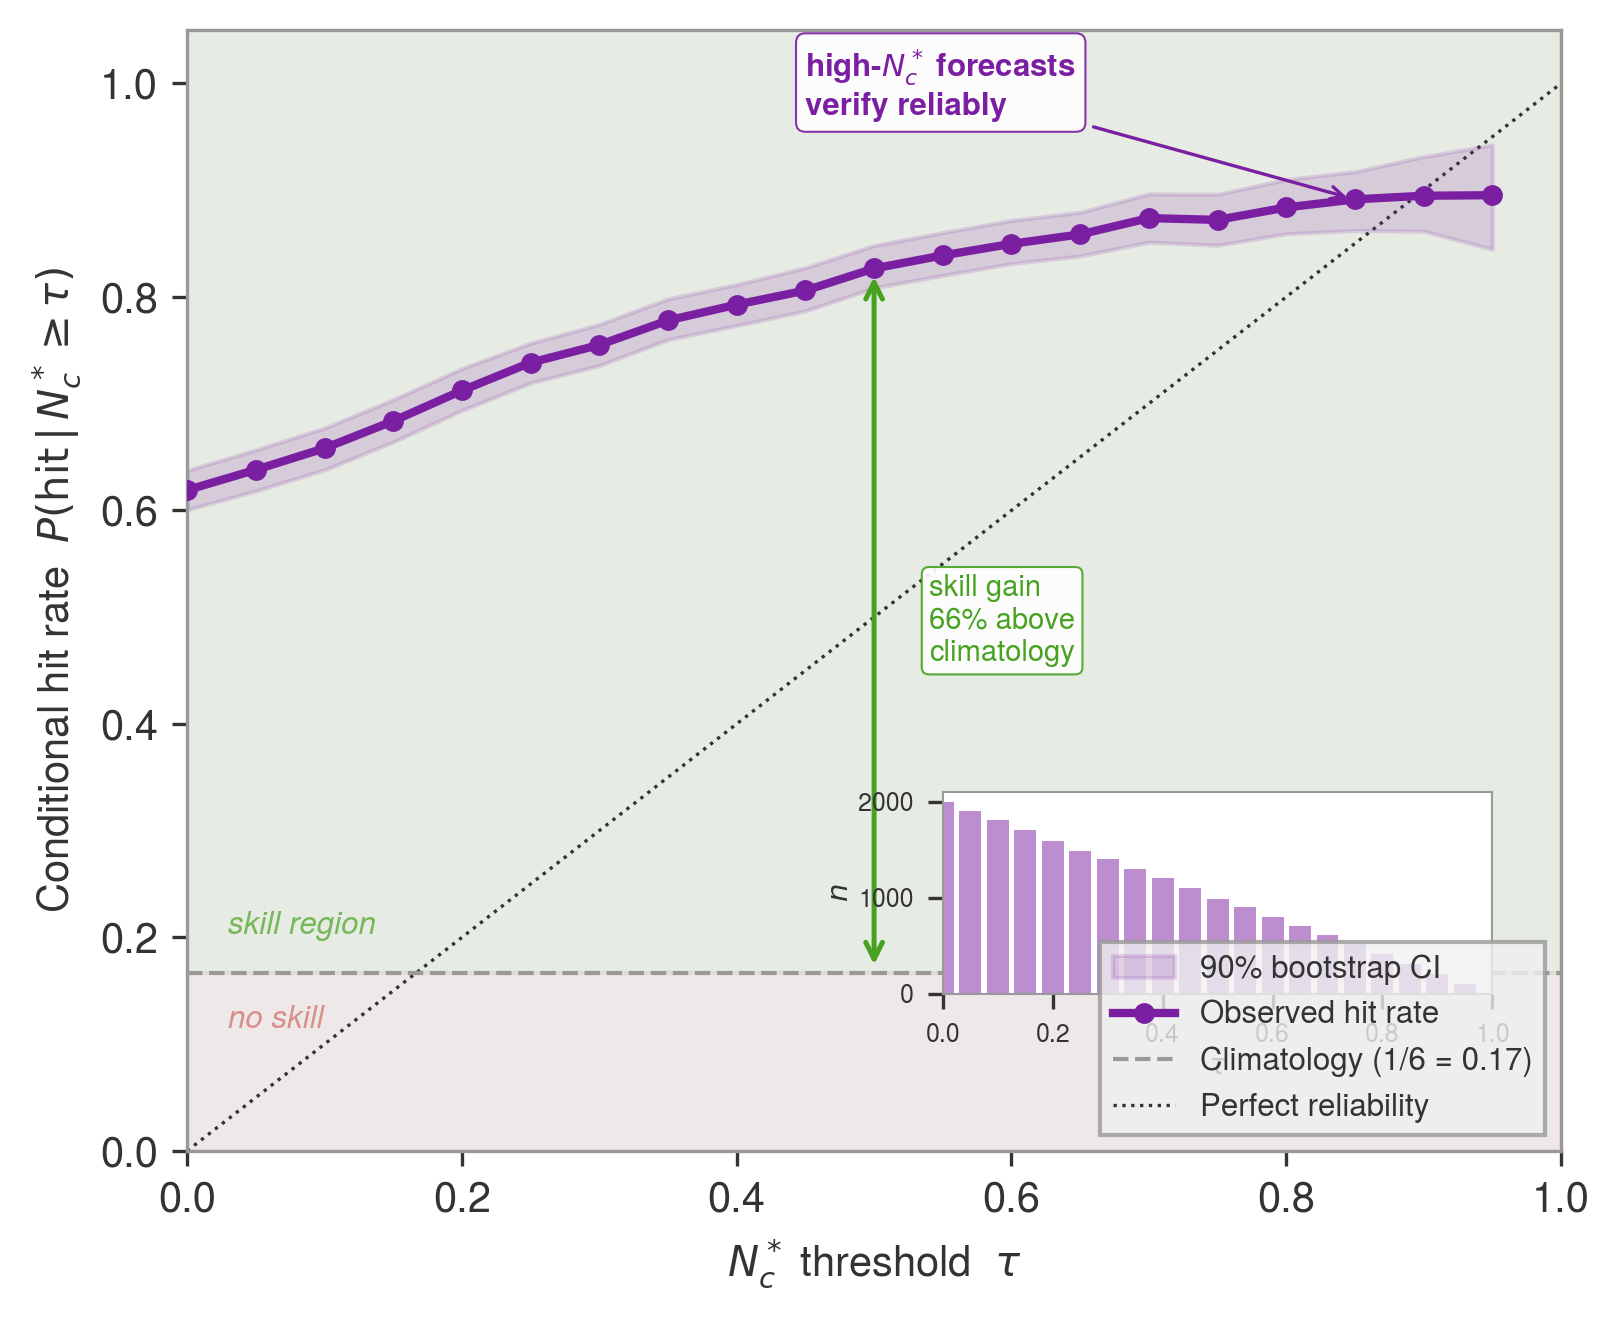
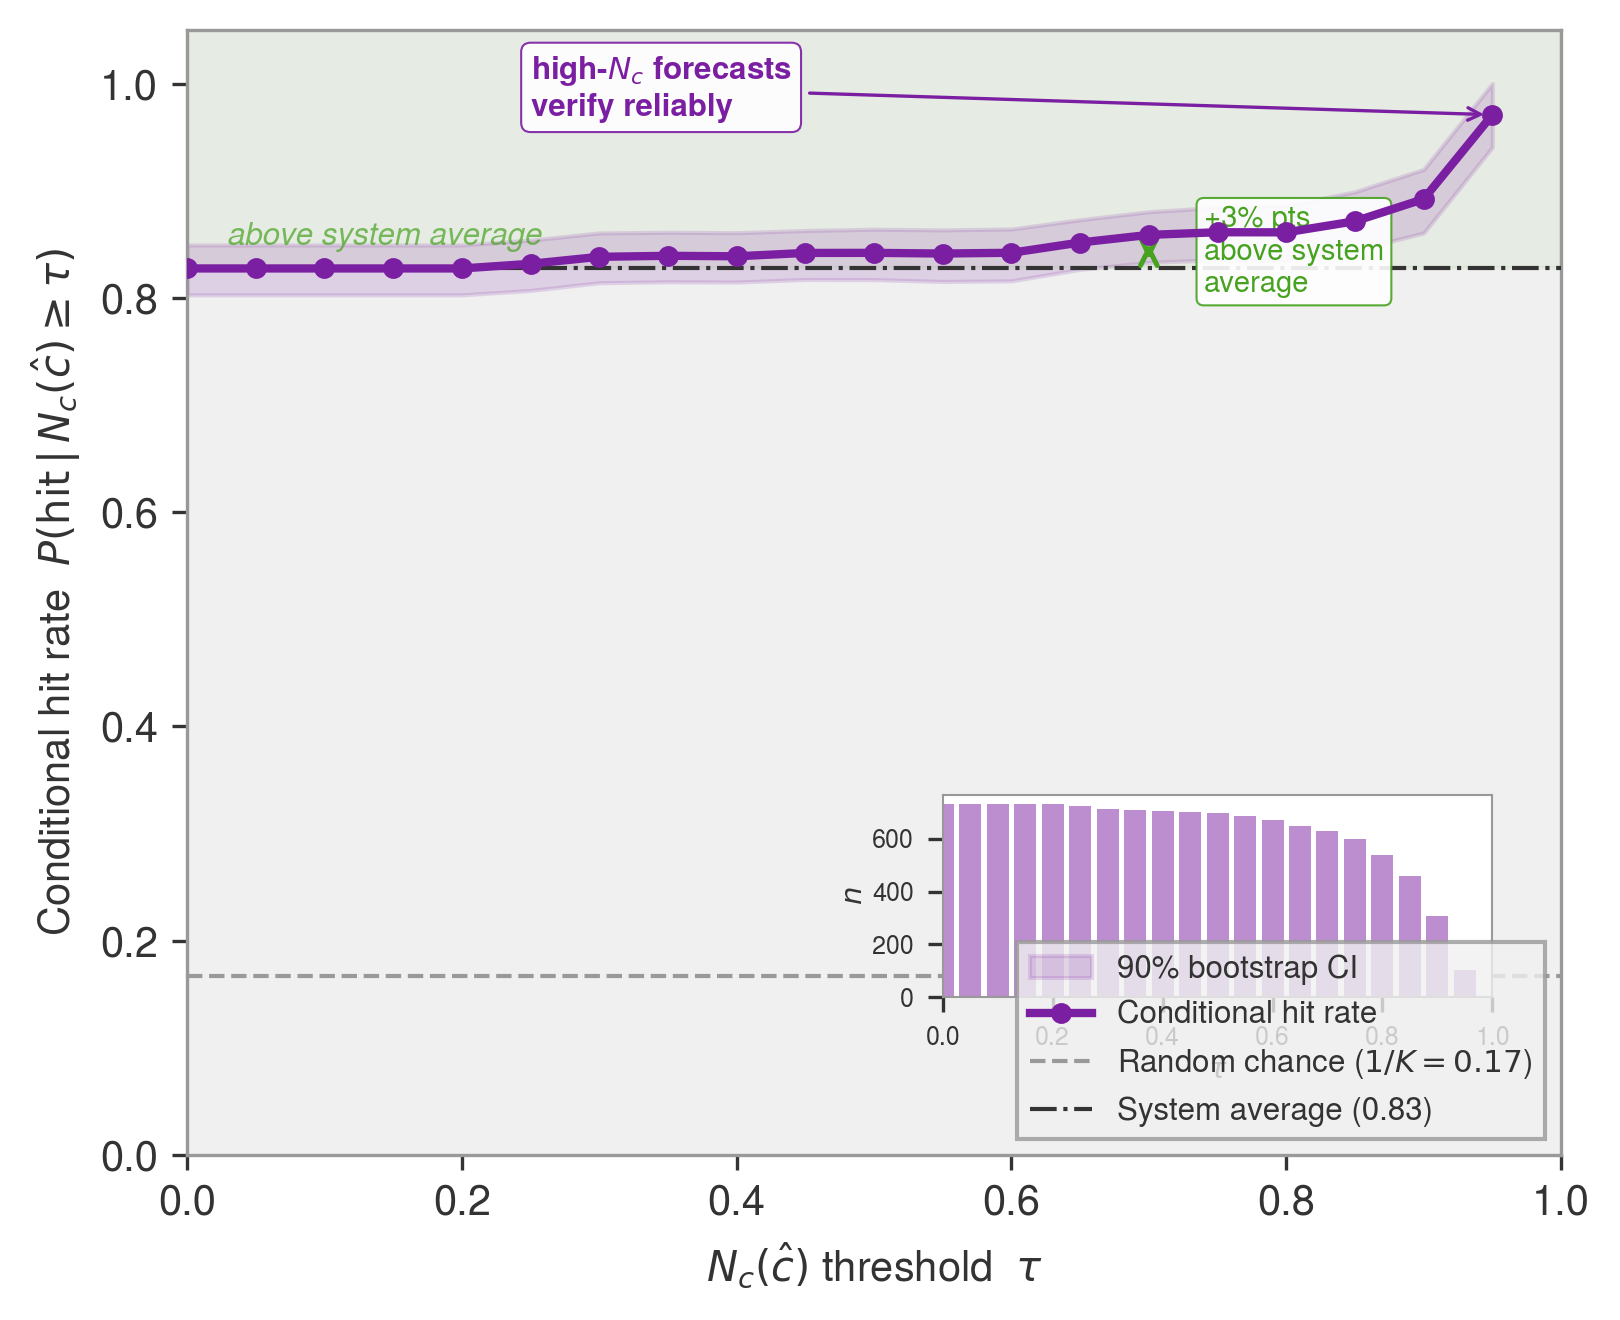
Regenerate Fig 6: shared reforecast, N_c(mode), two baselines
Replace fabricated synthetic data with the shared reforecast for
consistency with all other aggregate figures.

Compute N_c at the predicted (mode) category, not the observed one —
this correctly tests whether high N_c of the system's top pick is a
reliable confidence signal, rather than trivially recovering hits.

Add system-average baseline (0.83) alongside random-chance (1/K).
The curve rises ~3-5 pts above system average at high thresholds,
showing N_c identifies genuinely confident predictions.

Update caption and §5.1 text to describe the correct computation
and both baselines.

diff --git a/scripts/fig_reliability_curves.py b/scripts/fig_reliability_curves.py
@@ -1,54 +1,34 @@
 """Figure 6 (PDF order): Reliability of conditional necessity.
 
 x-axis: N_c threshold (0 to 1).
-y-axis: Conditional hit rate — fraction of forecasts whose N_c exceeds
-        the threshold and for which the correct category verified.
+y-axis: Conditional hit rate — among forecasts where the mode's N_c
+        exceeds the threshold, what fraction verified correctly?
 
-Enhanced with bootstrap confidence band, skill-region shading,
-sample-size inset, and interpretive annotations.
+Uses the shared synthetic reforecast from fig_performance_diagram.py.
+N_c is evaluated at the *predicted* (mode) category, not the observed
+one — this tests whether high N_c of the system's top pick is a
+reliable confidence signal.
 """
 import numpy as np
 import matplotlib.pyplot as plt
-from matplotlib.patches import FancyArrowPatch
 
 from style import (
     apply_style, save_fig,
     PURPLE, GREEN, LIGHT_GREY, DARK_GREY, MID_GREY,
     SPC_CATEGORIES, SPC_N,
 )
+from fig_performance_diagram import generate_reforecast
 
 
-def _generate_synthetic_data(n_forecasts=2000, seed=42):
-    """Generate synthetic (N_c, hit) pairs for illustration.
-
-    Higher N_c forecasts are more likely to verify (the whole point of the
-    reliability curve).  We model hit probability as a logistic function of N_c
-    with a bit of noise so the curve is realistic but not perfect.
-    """
-    rng = np.random.default_rng(seed)
-
-    # N_c values uniformly distributed in [0, 1]
-    Nc = rng.uniform(0, 1, size=n_forecasts)
-
-    # True hit probability: logistic mapping so high N_c -> high hit rate
-    # p(hit | Nc) = sigmoid(4*(Nc - 0.35))   gives ~0.20 at Nc=0, ~0.90 at Nc=1
-    logit = 4.0 * (Nc - 0.35)
-    p_hit = 1.0 / (1.0 + np.exp(-logit))
-
-    hits = rng.binomial(1, p_hit)
-
-    return Nc, hits
-
-
-def _bootstrap_ci(Nc_vals, hits, thresholds, n_boot=500, seed=99):
+def _bootstrap_ci(nc_mode, hits, thresholds, n_boot=500, seed=99):
     """Compute 90% bootstrap confidence intervals for conditional hit rate."""
     rng = np.random.default_rng(seed)
-    n = len(Nc_vals)
+    n = len(nc_mode)
     boot_curves = np.empty((n_boot, len(thresholds)))
 
     for b in range(n_boot):
         idx = rng.choice(n, size=n, replace=True)
-        nc_b, h_b = Nc_vals[idx], hits[idx]
+        nc_b, h_b = nc_mode[idx], hits[idx]
         for j, t in enumerate(thresholds):
             mask = nc_b >= t
             boot_curves[b, j] = h_b[mask].mean() if mask.sum() > 0 else np.nan
@@ -61,7 +41,24 @@ def _bootstrap_ci(Nc_vals, hits, thresholds, n_boot=500, seed=99):
 def main():
     apply_style()
 
-    Nc_vals, hits = _generate_synthetic_data()
+    # --- Use shared reforecast data ---
+    data = generate_reforecast()
+    pi_array = data['pi_array']
+    obs_idx = data['obs_idx']
+    n = len(obs_idx)
+
+    # Compute N_c of the MODE (predicted) category — not N_c*
+    # N_c(mode) = 1 - max_{w != mode} pi'(w)
+    mode_idx = pi_array.argmax(axis=1)
+    nc_mode = np.empty(n)
+    for i in range(n):
+        pi = pi_array[i]
+        pi_prime = pi / pi.max()
+        mask = np.ones(SPC_N, dtype=bool)
+        mask[mode_idx[i]] = False
+        nc_mode[i] = max(0.0, 1.0 - pi_prime[mask].max())
+
+    hits = (mode_idx == obs_idx).astype(float)
 
     # Bin by N_c threshold and compute conditional hit rate
     thresholds = np.linspace(0.0, 0.95, 20)
@@ -69,27 +66,24 @@ def main():
     counts = np.empty_like(thresholds)
 
     for j, t in enumerate(thresholds):
-        mask = Nc_vals >= t
-        n = mask.sum()
-        counts[j] = n
-        cond_hit[j] = hits[mask].mean() if n > 0 else np.nan
+        mask = nc_mode >= t
+        cnt = mask.sum()
+        counts[j] = cnt
+        cond_hit[j] = hits[mask].mean() if cnt > 0 else np.nan
 
     # Bootstrap confidence interval
-    ci_lo, ci_hi = _bootstrap_ci(Nc_vals, hits, thresholds)
+    ci_lo, ci_hi = _bootstrap_ci(nc_mode, hits, thresholds)
 
-    base = 1.0 / SPC_N
+    random_base = 1.0 / SPC_N
+    uncond_acc = hits.mean()  # system's unconditional mode accuracy
 
     fig, ax = plt.subplots(figsize=(5.5, 4.5))
 
-    # --- Skill region: shade above climatology ---
-    ax.axhspan(base, 1.05, color=GREEN, alpha=0.06, zorder=0)
-    ax.axhspan(0, base, color="#C0392B", alpha=0.04, zorder=0)
-    ax.text(0.03, base + 0.03, "skill region",
+    # --- Skill region: shade above unconditional accuracy ---
+    ax.axhspan(uncond_acc, 1.05, color=GREEN, alpha=0.06, zorder=0)
+    ax.text(0.03, uncond_acc + 0.015, "above system average",
             fontsize=7.5, fontstyle="italic", color=GREEN, alpha=0.7,
             va="bottom")
-    ax.text(0.03, base - 0.03, "no skill",
-            fontsize=7.5, fontstyle="italic", color="#C0392B", alpha=0.5,
-            va="top")
 
     # --- Bootstrap confidence band ---
     ax.fill_between(thresholds, ci_lo, ci_hi, color=PURPLE, alpha=0.15,
@@ -97,45 +91,49 @@ def main():
 
     # --- Reliability curve ---
     ax.plot(thresholds, cond_hit, color=PURPLE, linewidth=2.0, marker="o",
-            markersize=4, zorder=4, label="Observed hit rate")
+            markersize=4, zorder=4, label="Conditional hit rate")
 
-    # --- Climatological base rate ---
-    ax.axhline(base, linestyle="--", linewidth=1.0, color=MID_GREY, zorder=3,
-               label=f"Climatology (1/{SPC_N} = {base:.2f})")
+    # --- Baselines ---
+    ax.axhline(random_base, linestyle="--", linewidth=1.0, color=MID_GREY,
+               zorder=3, label=f"Random chance ($1/K = {random_base:.2f}$)")
+    ax.axhline(uncond_acc, linestyle="-.", linewidth=1.0, color=DARK_GREY,
+               zorder=3, label=f"System average ({uncond_acc:.2f})")
 
-    # --- Perfect reliability diagonal ---
-    ax.plot([0, 1], [0, 1], linestyle=":", linewidth=0.8, color=DARK_GREY,
-            zorder=1, label="Perfect reliability")
-
-    # --- Interpretive annotations ---
-    # Annotate the gap between curve and climatology at a mid threshold
-    t_mid = 0.50
-    idx_mid = np.argmin(np.abs(thresholds - t_mid))
-    hr_mid = cond_hit[idx_mid]
-    ax.annotate(
-        "",
-        xy=(t_mid, base), xytext=(t_mid, hr_mid),
-        arrowprops=dict(arrowstyle="<->", color=GREEN, lw=1.2),
-    )
-    ax.text(t_mid + 0.04, (base + hr_mid) / 2,
-            f"skill gain\n{hr_mid - base:.0%} above\nclimatology",
-            fontsize=7, color=GREEN, va="center",
-            bbox=dict(boxstyle="round,pad=0.25", fc="white", ec=GREEN,
-                      lw=0.5, alpha=0.9))
+    # --- Interpretive annotation: gain over system average ---
+    t_ann = 0.70
+    idx_ann = np.argmin(np.abs(thresholds - t_ann))
+    hr_ann = cond_hit[idx_ann]
+    if not np.isnan(hr_ann) and hr_ann > uncond_acc:
+        ax.annotate(
+            "",
+            xy=(t_ann, uncond_acc), xytext=(t_ann, hr_ann),
+            arrowprops=dict(arrowstyle="<->", color=GREEN, lw=1.2),
+        )
+        gain_pp = hr_ann - uncond_acc
+        ax.text(t_ann + 0.04, (uncond_acc + hr_ann) / 2,
+                f"+{gain_pp:.0%} pts\nabove system\naverage",
+                fontsize=7, color=GREEN, va="center",
+                bbox=dict(boxstyle="round,pad=0.25", fc="white", ec=GREEN,
+                          lw=0.5, alpha=0.9))
 
     # Annotate the high-confidence region
-    ax.annotate(
-        "high-$N_c^*$ forecasts\nverify reliably",
-        xy=(0.85, cond_hit[-3]), xytext=(0.45, 0.97),
-        fontsize=7.5, fontweight="bold", color=PURPLE,
-        arrowprops=dict(arrowstyle="->", color=PURPLE, lw=0.8),
-        bbox=dict(boxstyle="round,pad=0.3", fc="white", ec=PURPLE,
-                  lw=0.5, alpha=0.9),
-    )
+    valid_high = [i for i, c in enumerate(counts) if c >= 10]
+    if valid_high:
+        last_valid = valid_high[-1]
+        ax.annotate(
+            "high-$N_c$ forecasts\nverify reliably",
+            xy=(thresholds[last_valid], cond_hit[last_valid]),
+            xytext=(0.25, 0.97),
+            fontsize=7.5, fontweight="bold", color=PURPLE,
+            arrowprops=dict(arrowstyle="->", color=PURPLE, lw=0.8),
+            bbox=dict(boxstyle="round,pad=0.3", fc="white", ec=PURPLE,
+                      lw=0.5, alpha=0.9),
+        )
 
-    ax.set_xlabel(r"$N_c^*$ threshold  $\tau$", fontsize=10)
+    ax.set_xlabel(r"$N_c(\hat{c})$ threshold  $\tau$", fontsize=10)
     ax.set_ylabel("Conditional hit rate  "
-                  r"$P(\mathrm{hit}\,|\,N_c^* \geq \tau)$", fontsize=10)
+                  r"$P(\mathrm{hit}\,|\,N_c(\hat{c}) \geq \tau)$",
+                  fontsize=10)
     ax.set_xlim(0, 1)
     ax.set_ylim(0, 1.05)
     ax.legend(loc="lower right", fontsize=7.5, frameon=True, fancybox=False,

diff --git a/sections/06-tripartite-value.tex b/sections/06-tripartite-value.tex
@@ -64,24 +64,28 @@ threshold $\tau$, does the conditional hit rate exceed climatology?
 If so, high-necessity forecasts identify genuinely confident
 predictions---not just lucky ones.
 
-Figure~\ref{fig:reliability} illustrates this assessment: the
-conditional hit rate for the observed category rises with the \Nc{}
-threshold and remains above the climatological base-rate line,
-confirming that conditional necessity carries real diagnostic
-information.
+Figure~\ref{fig:reliability} illustrates this assessment using the
+shared synthetic reforecast.  $\Nc$ is computed at the \emph{predicted}
+(mode) category, not the observed one: the question is whether high
+$\Nc$ of the system's top pick is a reliable confidence signal.  Two
+baselines are shown: random chance ($1/K$) and the system's
+unconditional mode accuracy.  The curve rises above the system average
+at high thresholds, confirming that $\Nc$ carries diagnostic
+information---forecasts where the mode strongly dominates all
+alternatives verify more reliably than the system average.
 
 \begin{figure}[t]
 \centering
 \includegraphics[width=\columnwidth]{reliability_curves.png}
-\caption{Reliability of conditional necessity.  The purple curve shows
-    the conditional hit rate for the observed category as a function of
-    the $\Nc$ threshold $\tau$.  The horizontal dashed line marks the
-    climatological base rate ($1/K \approx 0.167$ for $K = 6$ categories):
-    the hit rate expected if forecasts were uninformative.
-    When the curve lies above this line, high-$\Nc$ forecasts verify
-    better than climatology---confirming that conditional necessity is an
-    informative confidence signal.  The shaded band shows a 90\% bootstrap
-    confidence interval.  Data are synthetic.}
+\caption{Reliability of conditional necessity for the synthetic
+    reforecast.  The purple curve shows the conditional hit rate among
+    forecasts whose mode has $\Nc(\hat{c}) \geq \tau$.
+    Two baselines: random chance ($1/K$, dashed) and the system's
+    unconditional mode accuracy (dot-dashed).  The curve rises above
+    the system average at high $\tau$, confirming that strong
+    conditional necessity identifies genuinely confident
+    predictions.  Shaded band: 90\% bootstrap CI.  Inset: sample size
+    per threshold.}
 \label{fig:reliability}
 \end{figure}
 
